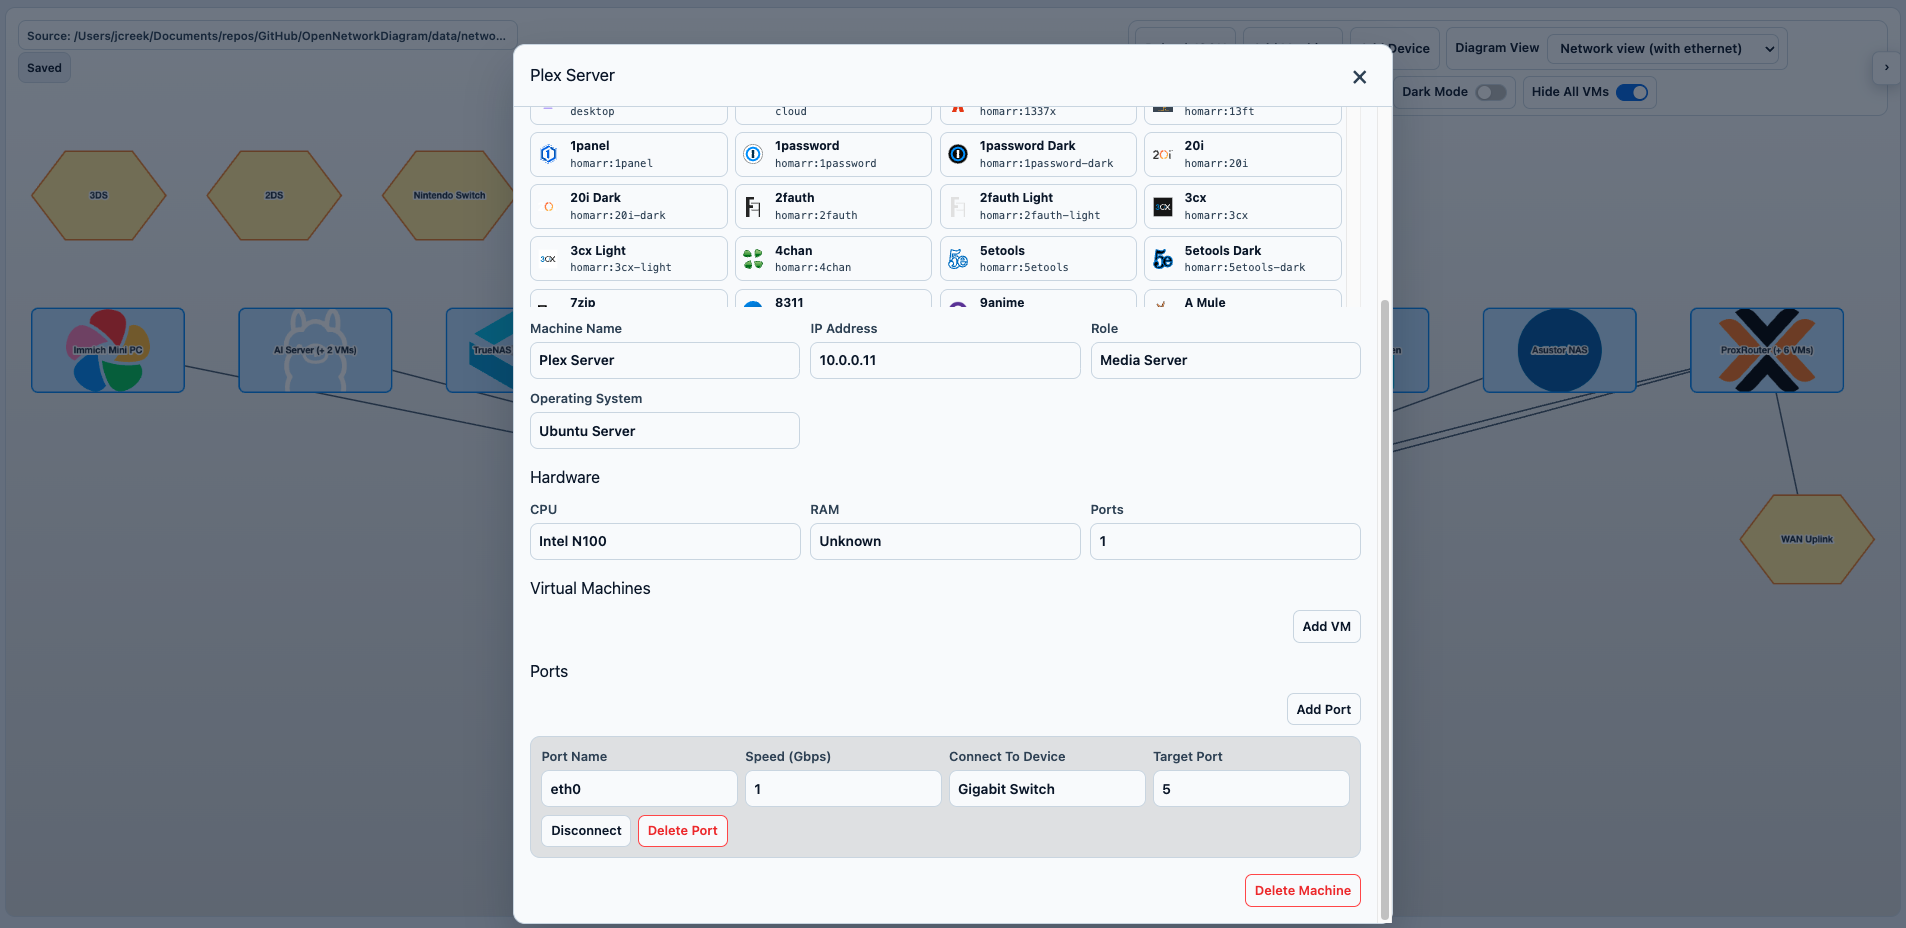
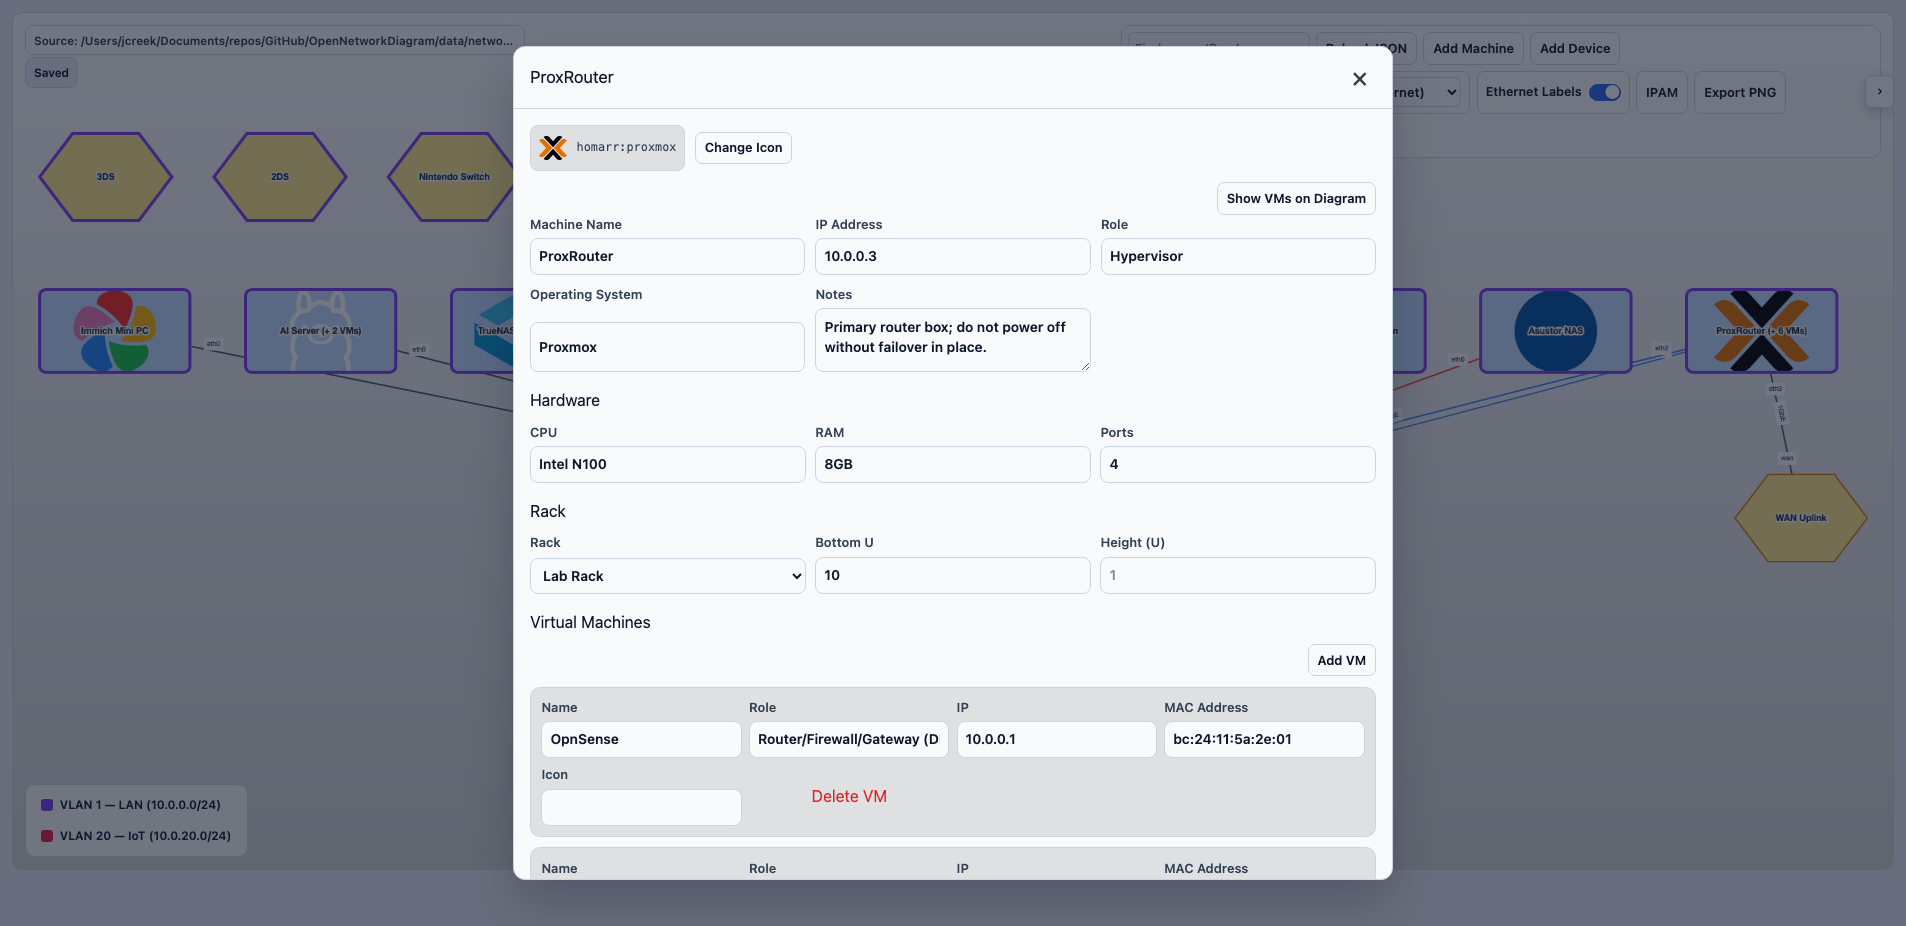
docs(*): Update README and screenshots for the new feature set

diff --git a/README.md b/README.md
@@ -22,8 +22,13 @@ Open Network Diagram helps you document your infrastructure in a visual UI while
 
 - Network view with ethernet labels to make physical and logical links easy to read.
 - Non-network view for host-first inventory and service mapping.
+- Rack view: managed racks with U positions and heights, side-by-side shelf items, and click-through to the editor.
+- Node search that highlights matches by name, IP, role or OS and dims everything else.
+- IPAM panel: per-subnet utilization, duplicate-IP conflict detection, and next-free-IP suggestions when adding machines, devices or VMs.
+- Subnet and VLAN declarations, with nodes colour-coded by VLAN and a clickable legend filter.
+- Cable tracking on connections (type, colour, length) with colour-coded links and hover details.
 - Expandable VM lists per machine for quick virtualization visibility.
-- Modal editor for machines/devices with live diagram updates.
+- Modal editor for machines/devices with live diagram updates, notes and MAC address fields.
 - JSON-backed persistence with autosave in self-hosted mode.
 - Docker-first deployment with writable data volume support.
 - Optional read-only mode for public demos and safe sharing.
@@ -32,6 +37,8 @@ Open Network Diagram helps you document your infrastructure in a visual UI while
 ## Why Home Lab Users Use It
 
 - Keep an always-up-to-date map of machines, VMs, and devices.
+- Find a free IP and spot duplicate assignments without a spreadsheet.
+- Know exactly what's in your rack and where, down to the U.
 - Edit quickly through a modal UI instead of hand-editing large diagrams.
 - Persist everything to JSON so backups and Git workflows stay simple.
 - Stay fully self-hosted with no runtime dependency on external APIs.
@@ -77,6 +84,10 @@ docker rm open-network-diagram
 | Network view with ethernet labels                                          | Non-network view with VMs expanded                                          | Modal editing a machine                                          |
 | -------------------------------------------------------------------------- | --------------------------------------------------------------------------- | ---------------------------------------------------------------- |
 | ![Open Network Diagram network view with ethernet labels](screenshot1.png) | ![Open Network Diagram non-network view with VMs expanded](screenshot2.png) | ![Open Network Diagram modal editing a machine](screenshot3.png) |
+
+| IPAM panel with subnet utilization                                | Rack view with shelf items                             |
+| ------------------------------------------------------------------ | -------------------------------------------------------- |
+| ![Open Network Diagram IPAM panel with subnet utilization](screenshot4.png) | ![Open Network Diagram rack view with shelf items](screenshot5.png) |
 
 ## Docker Compose Option
 
@@ -151,25 +162,73 @@ Environment variables:
 			"ipAddress": "10.0.0.3",
 			"role": "Hypervisor",
 			"operatingSystem": "Proxmox",
+			"notes": "Primary router box.",
 			"software": {
-				"vms": [{ "name": "OpnSense", "role": "Router", "ipAddress": "10.0.0.4" }]
+				"vms": [
+					{
+						"name": "OpnSense",
+						"role": "Router",
+						"ipAddress": "10.0.0.4",
+						"macAddress": "bc:24:11:5a:2e:01"
+					}
+				]
 			},
 			"hardware": {
 				"cpu": "Intel N100",
 				"ram": "8GB",
 				"networkPorts": 4
-			}
+			},
+			"ports": [
+				{
+					"portName": "eth0",
+					"speedGbps": 1,
+					"connectedTo": {
+						"device": "Switch",
+						"port": "1",
+						"cable": { "type": "Cat6", "color": "blue", "lengthM": 1 }
+					}
+				}
+			],
+			"rack": { "name": "Lab Rack", "unit": 10 }
 		}
 	],
-	"devices": [{ "name": "Switch", "ipAddress": "10.0.0.2", "type": "Nintendo Switch" }]
+	"devices": [
+		{
+			"name": "Switch",
+			"ipAddress": "10.0.0.2",
+			"type": "Network Switch",
+			"ports": [
+				{
+					"portName": "1",
+					"speedGbps": 1,
+					"connectedTo": {
+						"device": "ProxRouter",
+						"port": "eth0",
+						"cable": { "type": "Cat6", "color": "blue", "lengthM": 1 }
+					}
+				}
+			],
+			"rack": { "name": "Lab Rack", "unit": 12 }
+		}
+	],
+	"subnets": [{ "cidr": "10.0.0.0/24", "name": "LAN", "vlanId": 1 }],
+	"racks": [{ "name": "Lab Rack", "heightU": 12 }]
 }
 ```
+
+Notes on the optional fields:
+
+- `subnets` powers the IPAM panel and VLAN colouring (`vlanId` is optional per subnet).
+- `racks` declares rack names and total units for the rack view; machines/devices opt in with a `rack` placement (`unit` is the bottom U, `heightU` defaults to 1). Items with the identical U range render side by side as shelf-mates.
+- `cable` on a `connectedTo` records type/colour/length and is kept identical on both ends automatically.
+- `notes` (machines and devices) and `macAddress` (ports and VMs) are free text.
 
 ### Project Structure
 
 ```text
 OpenNetworkDiagram/
 ├── src/                               # Svelte app source
+├── src/lib/shared/                    # Schema + persistence core (shared with server.mjs)
 ├── src/lib/config/vendorIconManifest.ts # Generated local icon catalog
 ├── static/data/network.json           # Demo dataset (Netlify)
 ├── static/icons/vendor/               # Vendored icon assets (runtime-local)